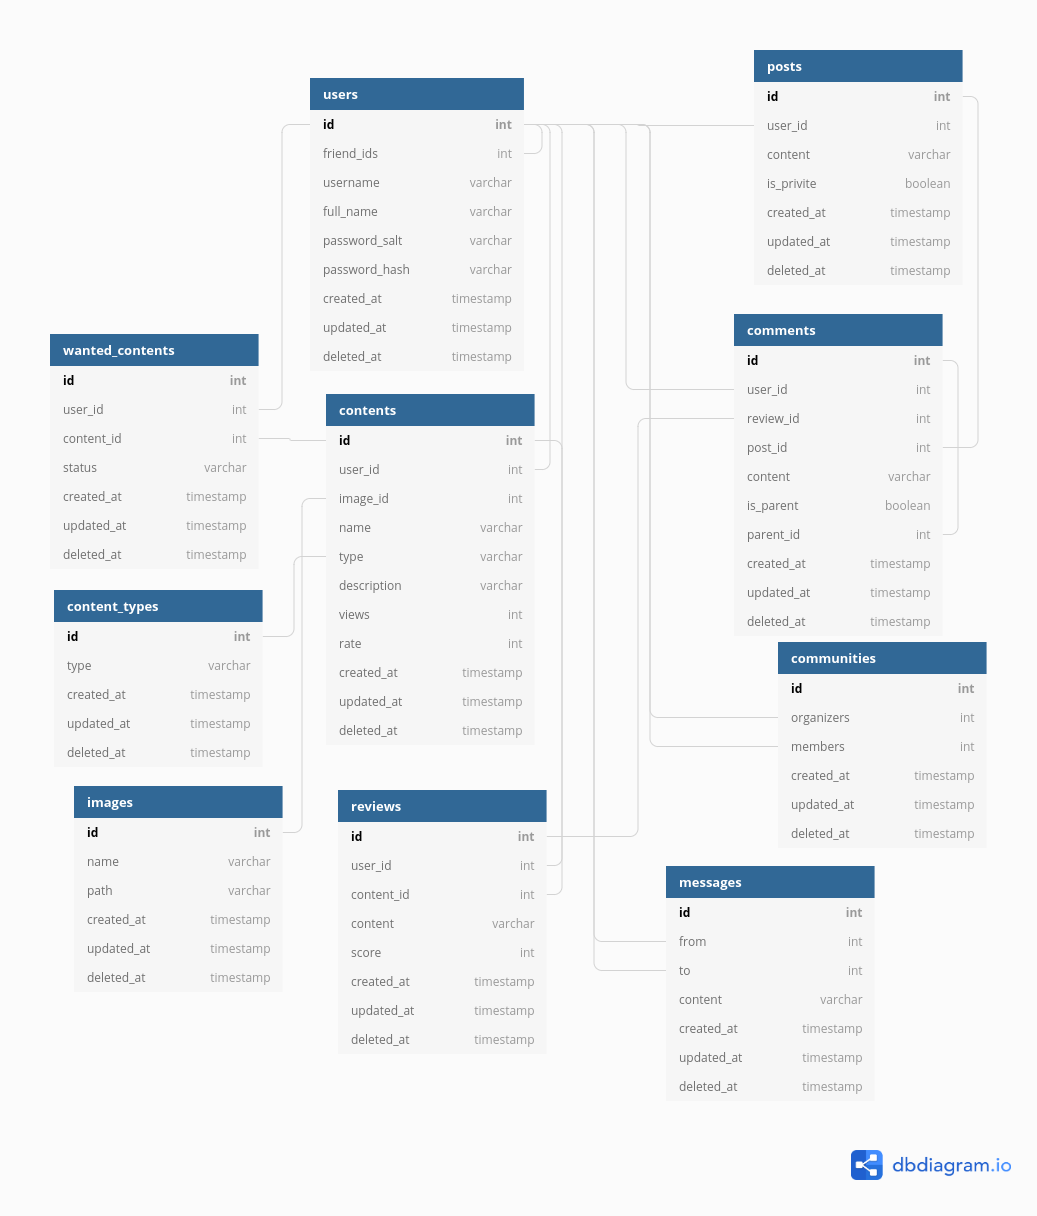
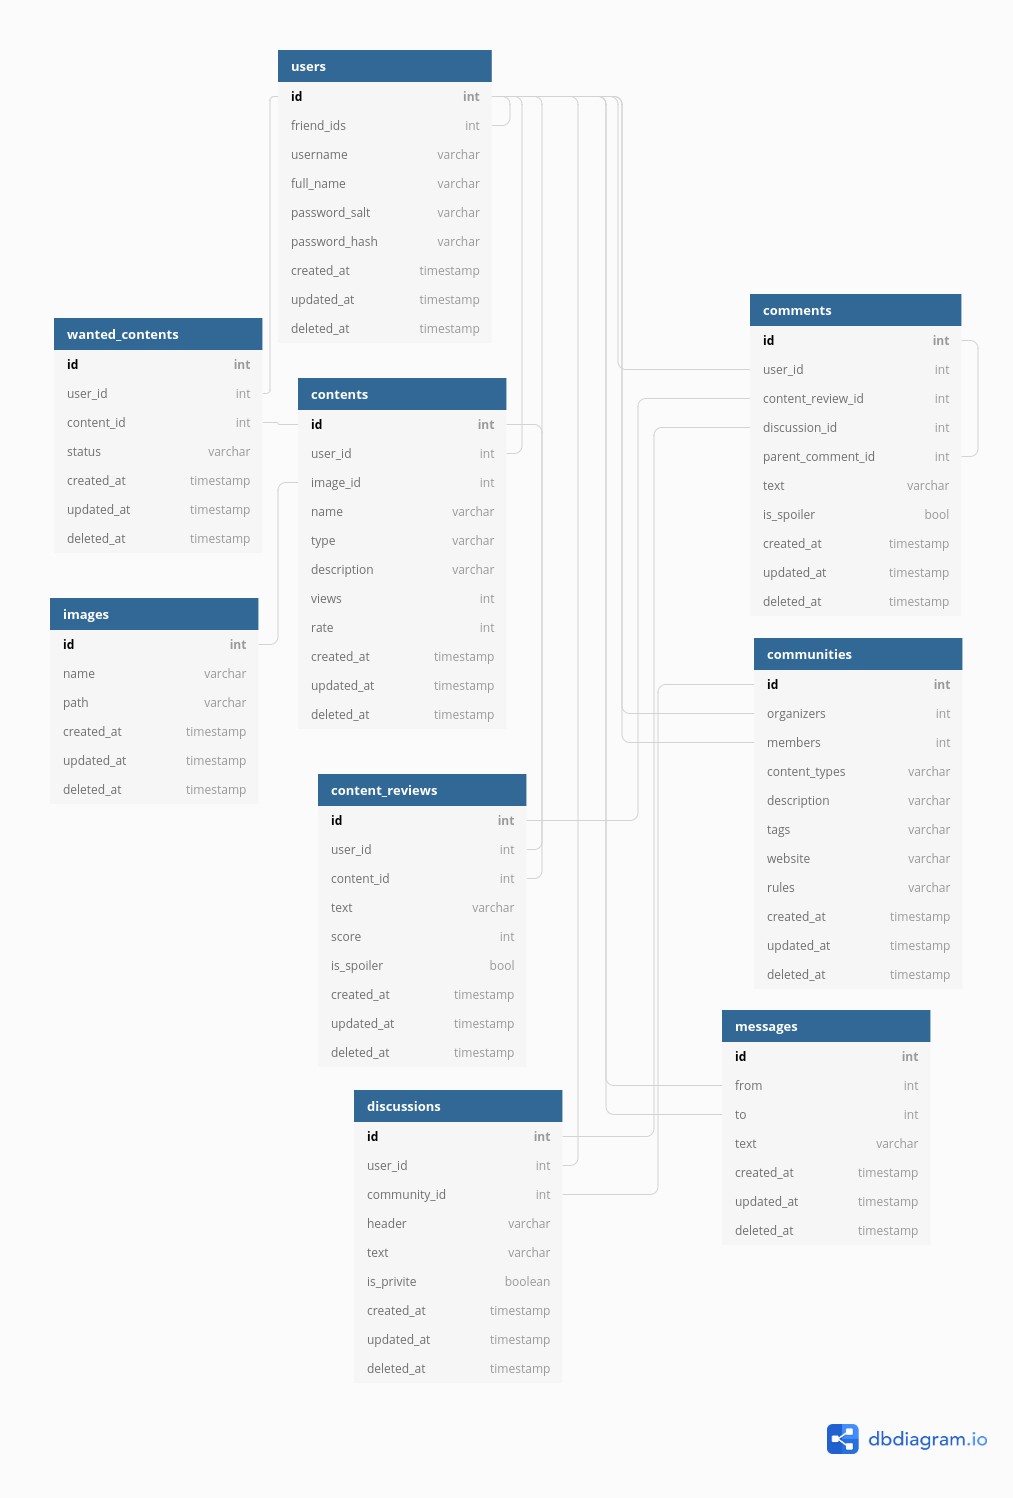
update db schema

diff --git a/docs/db.md b/docs/db.md
@@ -5,10 +5,10 @@
 ![db.png](db.png)
 
 ### Source
-```
-Table users{
+```js
+table users{
   id int [pk, increment]
-  friend_ids int [not null, ref: > users.id] // user id array
+  friend_ids int [not null, ref: > users.id] // User id, array
   username varchar
   full_name varchar
   password_salt varchar
@@ -18,12 +18,12 @@ Table users{
   deleted_at timestamp
 }
 
-Table contents{
+table contents{
   id int [pk, increment]
   user_id int [not null, ref: > users.id]
   image_id int [not null, ref: - images.id]
   name varchar [not null]
-  type varchar [not null, ref: > content_types.id]
+  type varchar [not null] // Game, movie, series, book
   description varchar [not null]
   views int [default: 0]
   rate int [default: null]
@@ -32,44 +32,36 @@ Table contents{
   deleted_at timestamp
 }
 
-Table content_types{
-  id int [pk, increment]
-  type varchar [not null] //game, movie ...
-  created_at timestamp
-  updated_at timestamp
-  deleted_at timestamp
-}
-
-Table comments{
+table comments{
   id int [pk, increment]
   user_id int [not null, ref: > users.id]
-  review_id int [default: null, ref: > reviews.id]
-  post_id int [default: null, ref: > posts.id]
-  content varchar [not null]
-  is_parent boolean [default: 0] // for nested comment
-  parent_id int [not null, ref: > comments.id]
+  content_review_id int [default: null, ref: > content_reviews.id]
+  discussion_id int [default: null, ref: > discussions.id]
+  parent_comment_id int [default: null, ref: > comments.id] // For nested comments
+  text varchar [not null]
+  is_spoiler bool [default: false]
   created_at timestamp
   updated_at timestamp
   deleted_at timestamp
 }
 
-
-table wanted_contents{
+table wanted_contents{ // 'my list' items 
   id int [pk, increment]
   user_id int [not null, ref: > users.id]
   content_id int [not null, ref: > contents.id]
-  status varchar [not null]
+  status varchar [not null] // Want to read, reading, readed, ...
   created_at timestamp
   updated_at timestamp
   deleted_at timestamp
 }
 
-table reviews{
+table content_reviews{
   id int [pk, increment]
   user_id int [not null, ref: > users.id]
   content_id int [not null, ref: > contents.id]
-  content varchar
+  text varchar
   score int
+  is_spoiler bool [default: false]
   created_at timestamp
   updated_at timestamp
   deleted_at timestamp
@@ -77,7 +69,6 @@ table reviews{
 
 table images{
   id int [pk, increment]
-  //owner_id int [not null, ref: < users.id]
   name varchar [not null]
   path varchar [not null]
   created_at timestamp
@@ -89,7 +80,7 @@ table messages{
   id int [pk, increment]
   from int [not null, ref: - users.id]
   to int [not null, ref: - users.id]
-  content varchar [not null]
+  text varchar [not null]
   created_at timestamp
   updated_at timestamp
   deleted_at timestamp
@@ -97,17 +88,24 @@ table messages{
 
 table communities{
   id int [pk, increment]
-  organizers int [not null, ref: > users.id] //user id array
-  members int [not null, ref: > users.id] //user id array
+  organizers int [not null, ref: > users.id] // user id array
+  members int [not null, ref: > users.id] // user id array
+  content_types varchar [not null] // String array
+  description varchar [not null]
+  tags varchar
+  website varchar
+  rules varchar
   created_at timestamp
   updated_at timestamp
   deleted_at timestamp
 }
 
-table posts{
+table discussions{ 
   id int [pk, increment]
   user_id int [not null, ref: > users.id]
-  content varchar [not null]
+  community_id int [not null, ref: > communities.id]
+  header varchar [not null]
+  text varchar [not null]
   is_privite boolean [default: 0]
   created_at timestamp
   updated_at timestamp
